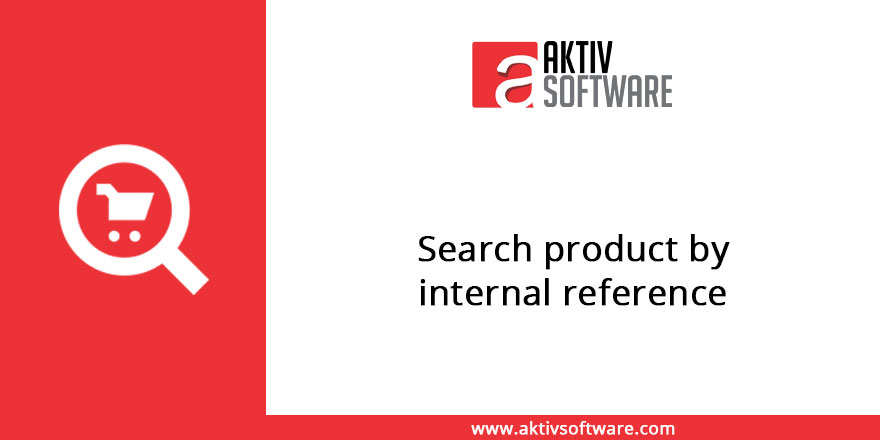
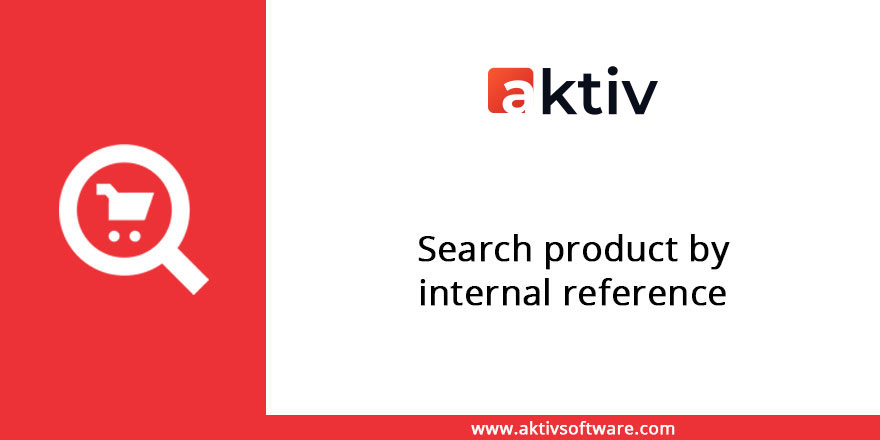
[ADD] change image in 10.0

Changed region(s): [[0.5216, 0.0886, 0.767, 0.2659]]

diff --git a/sale_order_line_by_internal_reference/static/description/index.html b/sale_order_line_by_internal_reference/static/description/index.html
@@ -60,7 +60,7 @@
     <div class="oe_row oe_spaced">
         <h2 class="oe_slogan">
             <a href="http://aktivsoftware.com/" target="new">
-                <img src="http://aktivsoftware.com/wp-content/uploads/2018/01/logo-1.png"/>
+                <img src="aktiv-logo.png"/>
             </a>
             <br/>
             <a href="mailto:sales@aktivsoftware.com" style="color: #000000 !important;">
